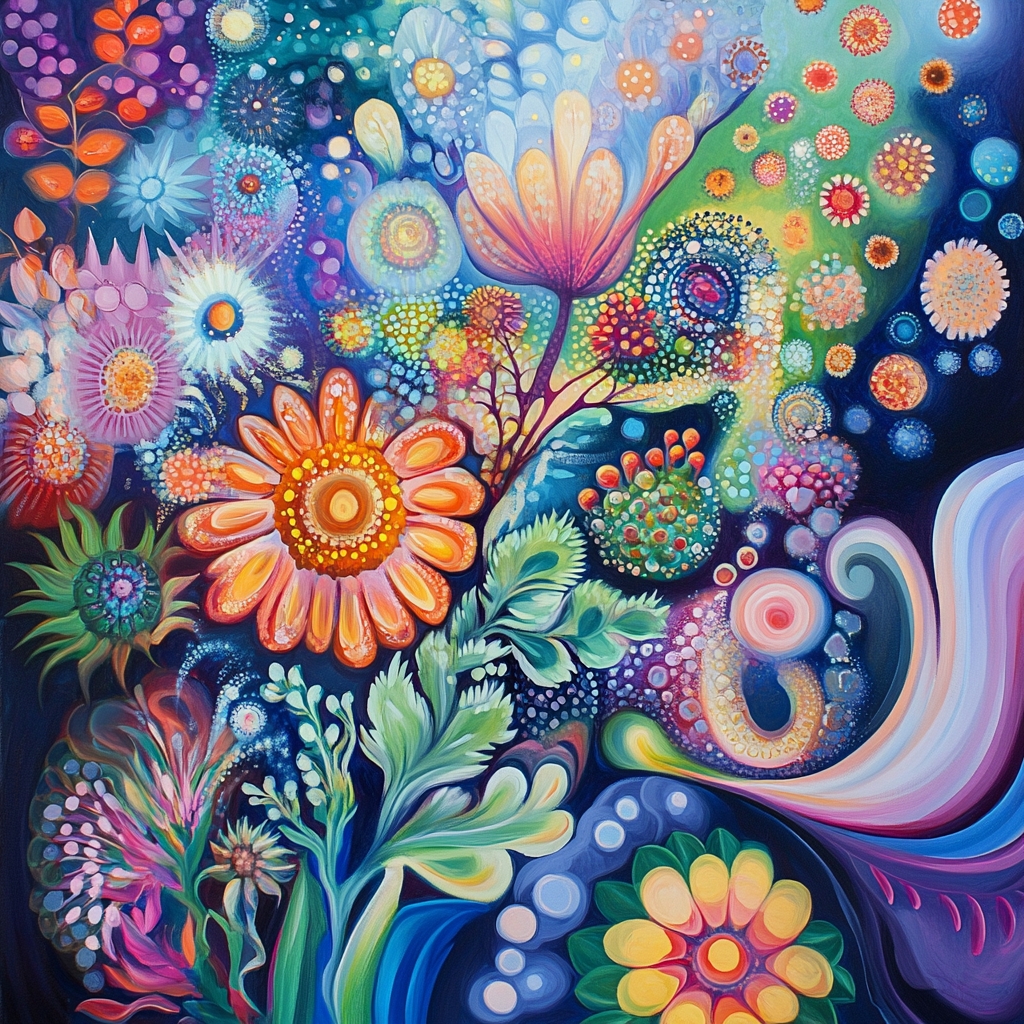
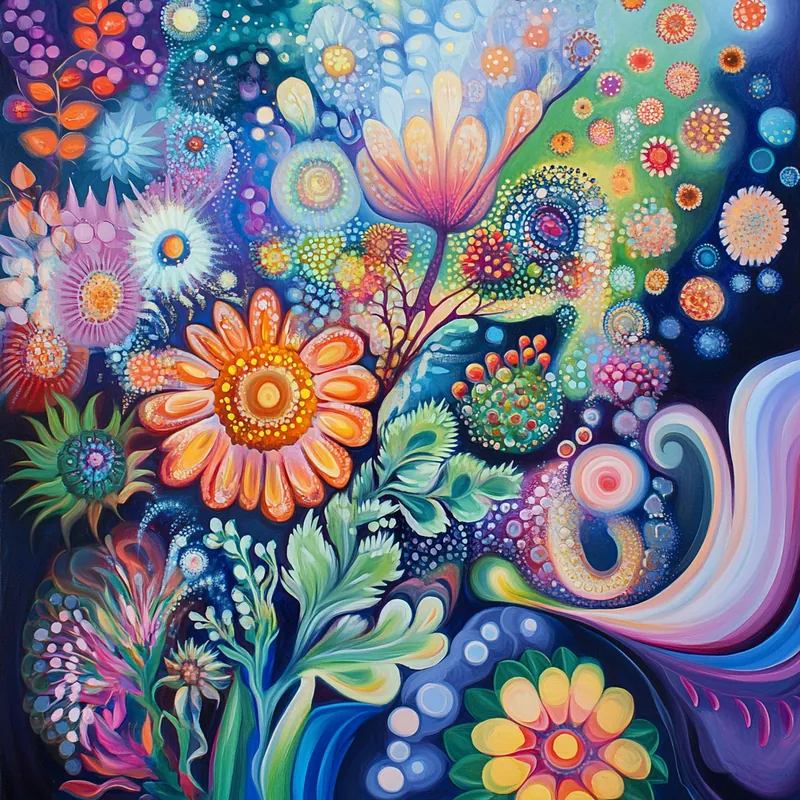
Lighter images, per-page share cards, accessible link text and contrast
Images (same URLs, re-encoded in place):
- Theme images 1024px lossless WebP (1.2-1.7 MB) -> 800px q80 (78-162 KB)
- Header JPEG 431 KB -> 224 KB (progressive q78); logo 768px 456 KB -> 400px 125 KB
- Markdown images get width/height from the file (no layout shift) and all but
  the first lazy-load (rehype-image-dimensions); a missing image fails the build

Share cards:
- Posts: og:type article, published/modified time, sections, and their own
  figure (postImage(), shared with the Article JSON-LD) instead of the logo
- Theme pages use their theme image; other pages og:type website
- og:image width/height/alt; summary_large_image only for landscape images
  >= 600x315, compact card otherwise

Accessibility:
- Theme card image links on /themes/ get the theme title as alt text
- Pink text uses $color-primary-text (#ca085d, >= 4.5:1); muted grey is #767676;
  citation DOI links are underlined
- RSS and newsletter buttons' accessible names match their visible text

Claude-Session: https://claude.ai/code/session_01GoPBSV9tDxq7BMwDmuATmw

diff --git a/src/lib/seo.ts b/src/lib/seo.ts
@@ -94,9 +94,20 @@ export async function postBreadcrumbs(post: Post, path: string): Promise<Crumb[]
 }
 
 /**
+ * The image that represents a post (structured data and share cards):
+ * schema_image, else the first image in the post body, else the site logo.
+ */
+export function postImage(post: Post): { src: string; alt?: string } {
+  if (post.data.schema_image) return { src: post.data.schema_image };
+  const first = post.body?.match(/!\[([^\]]*)\]\(\s*([^)\s]+)/);
+  if (first) return { src: first[2], alt: first[1].replace(/\s+/g, ' ').trim() || undefined };
+  return { src: site.logo };
+}
+
+/**
  * Article structured data for a paper summary.
  * - headline: the title, or seo_title when the title exceeds Google's 110-char limit
- * - image: schema_image, else the first image in the post body, else the site logo
+ * - image: see postImage()
  * - dateModified: last_modified_at, else the post date
  * - keywords: glossary terms the post links to
  * - articleSection: display names of the post's themes
@@ -108,8 +119,7 @@ export async function articleSchema(post: Post, path: string) {
   let headline = data.title;
   if (headline.length > 110) headline = truncate(data.seo_title || data.title, 110);
 
-  const firstImage = html.match(/<img[^>]*\ssrc="([^"]+)"/)?.[1];
-  const image = absoluteUrl(data.schema_image ?? firstImage ?? site.logo);
+  const image = absoluteUrl(postImage(post).src);
 
   const definitions = definitionsByTerm();
   const keywords = [
@@ -151,4 +161,23 @@ export async function articleSchema(post: Post, path: string) {
     ...(data.snippet && { abstract: stripNewlines(stripHtml(data.snippet)) }),
     isAccessibleForFree: true,
   };
+}
+
+/** Open Graph / Twitter card settings for a page. */
+export interface ShareMeta {
+  /** Site-relative image path; defaults to the site logo. */
+  image?: string;
+  imageAlt?: string;
+  /** Set on paper summaries: og:type becomes "article". */
+  article?: { published: Date; modified?: Date; sections: string[] };
+}
+
+/**
+ * Twitter card type for an image. Large cards are cropped to roughly 1.91:1 and
+ * shown wide, so only big landscape images get one; anything else (small figures,
+ * square theme images, the logo) gets the compact "summary" card.
+ */
+export function twitterCard({ width, height }: { width: number; height: number }) {
+  const ratio = width / height;
+  return width >= 600 && height >= 315 && ratio >= 1.3 && ratio <= 2.5 ? 'summary_large_image' : 'summary';
 }

diff --git a/src/lib/images.js b/src/lib/images.js
@@ -1,0 +1,32 @@
+// Pixel dimensions of images served from public/, read at build time.
+import { readFileSync } from 'node:fs';
+import { join } from 'node:path';
+import { imageSize } from 'image-size';
+
+/** @type {Map<string, { width: number, height: number }>} */
+const cache = new Map();
+
+/**
+ * Size of a site-relative image such as "/assets/images/logo_sm.png".
+ * Throws if the file is missing from public/, so broken image links fail the build.
+ * @param {string} src
+ * @param {string} [from] where the image is referenced, for the error message
+ * @returns {{ width: number, height: number }}
+ */
+export function publicImageSize(src, from = 'site') {
+  const path = decodeURI(src.split(/[?#]/)[0]);
+  let size = cache.get(path);
+  if (!size) {
+    let bytes;
+    try {
+      bytes = readFileSync(join(process.cwd(), 'public', path));
+    } catch {
+      throw new Error(`Image "${src}" (referenced in ${from}) not found at public${path}.`);
+    }
+    const { width, height } = imageSize(bytes);
+    if (!width || !height) throw new Error(`Cannot read the dimensions of public${path}.`);
+    size = { width, height };
+    cache.set(path, size);
+  }
+  return size;
+}

diff --git a/src/lib/rehype-image-dimensions.js b/src/lib/rehype-image-dimensions.js
@@ -1,0 +1,21 @@
+// Gives markdown images that point at files in public/ their intrinsic width and
+// height (so the page doesn't shift as they load) and lazy-loads all but the first.
+import { visit } from 'unist-util-visit';
+import { publicImageSize } from './images.js';
+
+export default function rehypeImageDimensions() {
+  return (tree, file) => {
+    let index = 0;
+    visit(tree, 'element', (node) => {
+      if (node.tagName !== 'img') return;
+      const isFirst = index++ === 0;
+      const src = String(node.properties.src ?? '');
+      if (!src.startsWith('/') || src.startsWith('//')) return;
+      const { width, height } = publicImageSize(src, file.path ?? 'markdown');
+      node.properties.width ??= width;
+      node.properties.height ??= height;
+      node.properties.decoding ??= 'async';
+      if (!isFirst) node.properties.loading ??= 'lazy';
+    });
+  };
+}

diff --git a/src/styles/main.sass b/src/styles/main.sass
@@ -249,14 +249,13 @@ body
       color: #b3b3b1
       line-height: 30px
       a
-        color: #b3b3b1
-        text-decoration: none
-        &:hover
-          text-decoration: underline
+        // Underlined: the color alone doesn't set links apart from #333 citation text.
+        color: $color-text-muted
+        text-decoration: underline
   h2
     font-family: $font-family-serif
   a
-    color: $color-primary
+    color: $color-primary-text
     text-decoration: none
     &:hover
       text-decoration: underline
@@ -346,7 +345,7 @@ body
   max-width: 640px
   font-size: $rs/4*3
   text-align: center
-  color: #999
+  color: $color-text-muted
   line-height: $rs*1.1
   a
     color: #666
@@ -519,6 +518,7 @@ body
       text-decoration: underline
     img
       max-width: 100%
+      height: auto
       margin: 0 auto
     figure
       margin: 0

diff --git a/src/styles/_variables.sass b/src/styles/_variables.sass
@@ -1,5 +1,7 @@
 // Colors
 $color-primary: #f62681
+// $color-primary darkened for text: at least 4.5:1 (WCAG AA) on white and the pink card backgrounds
+$color-primary-text: #ca085d
 $color-primary-dark: #d8517c
 $color-primary-light: #f9f0f5
 $color-primary-lighter: #f8e4ed
@@ -8,7 +10,7 @@ $color-accent: #d8517c
 
 $color-text-primary: #333332
 $color-text-secondary: #666665
-$color-text-muted: #999
+$color-text-muted: #767676  // lightest grey with 4.5:1 contrast on white
 $color-text-light: #b3b3b1
 
 $color-background: #fff

diff --git a/src/components/subscribe.html b/src/components/subscribe.html
@@ -669,7 +669,7 @@
 
               <div class="ml-form-embedSubmit">
 
-                  <button type="submit" class="primary" aria-label="Subscribe to newsletter">Sign Up!</button>
+                  <button type="submit" class="primary">Sign Up!</button>
 
                 <button disabled="disabled" style="display: none;" type="button" class="loading" aria-label="Submitting form">
                   <div class="ml-form-embedSubmitLoad"></div>

diff --git a/src/styles/pages/_home.sass b/src/styles/pages/_home.sass
@@ -22,10 +22,11 @@
     color: $color-text-secondary
     flex-grow: 1
 
-.card-button
+// Nested so it outranks main.sass's `.content a`.
+.content-card .card-button
   display: inline-block
   background-color: $color-primary-light
-  color: $color-accent
+  color: $color-primary-text
   text-decoration: none
   padding: 10px 15px
   border-radius: 4px

diff --git a/src/styles/tooltip.sass b/src/styles/tooltip.sass
@@ -4,7 +4,7 @@
   position: relative
   display: inline-block
   border-bottom: 1px dashed $color-primary
-  color: $color-primary
+  color: $color-primary-text
 
   .glossary-term-link
     color: inherit

diff --git a/src/styles/components/_breadcrumbs.sass b/src/styles/components/_breadcrumbs.sass
@@ -25,7 +25,7 @@
     font-weight: 500
 
   a
-    color: $color-primary
+    color: $color-primary-text
     text-decoration: none
 
     &:hover

diff --git a/CLAUDE.md b/CLAUDE.md
@@ -37,6 +37,8 @@ src/
   lib/content.ts      Collection helpers (sorting, URLs, theme lookups, markdownify)
   lib/seo.ts          <title> logic, meta descriptions, JSON-LD (Article, BreadcrumbList, Person)
   lib/remark-glossary-terms.js  Renders :term{...} directives as glossary tooltips
+  lib/rehype-image-dimensions.js  Adds width/height (+ lazy loading) to markdown images
+  lib/images.js       publicImageSize(): pixel size of a file in public/
   pages/              Routes; [slug].astro = posts, themes/[theme].astro = themes
   pages/css/[name].css.ts       Compiles src/styles/<name>.sass -> /css/<name>.css
   pages/assets/js/[name].js.ts  Serves src/scripts/<name>.js -> /assets/js/<name>.js and <name>.min.js
@@ -57,7 +59,7 @@ Copy `src/content/posts/_template_post.md`. Glossary tooltips use markdown direc
 :term[inflammatory]{id="inflammation"}   custom link text
 ```
 
-An unknown term id fails the build. Link to other posts by URL, e.g. `[Lutz et al. 2004](/high-amplitude-gamma-synchrony/)`.
+An unknown term id fails the build, and so does an image path that is not in `public/`. Link to other posts by URL, e.g. `[Lutz et al. 2004](/high-amplitude-gamma-synchrony/)`.
 
 Front matter: `title`, `date`, `theme` (one key or a list), `doi`, `meta_description` (≤ ~160 chars), `snippet`, `citation` (markdown), optional `seo_title` (≤ 60 chars; used for `<title>` when the title is long), `last_modified_at` (drives `dateModified` and sitemap `lastmod`), `schema_image`.
 
@@ -73,6 +75,7 @@ Every URL from the Jekyll site is preserved (pages, `/css/*.css`, `/assets/js/*.
 
 - Sass indented syntax (`.sass`), entry points `main`, `tooltip`, `pages`, `components` in `src/styles/`; partials in `src/styles/{components,pages,mixins}`.
 - Semantic variables live in `src/styles/_variables.sass` — check there before adding colors or dimensions.
+- Text must meet WCAG AA contrast (4.5:1). Use `$color-primary-text` (not `$color-primary`) for pink text and `$color-text-muted` (#767676) as the lightest grey for text; `$color-primary` is for borders and backgrounds.
 - Dart Sass deprecation warnings (`@import`, Bourbon's old syntax) are silenced in `pages/css/[name].css.ts`; Dart Sass 3 will require migrating to `@use` and dropping Bourbon.
 - Breakpoints: 768px, 800px, 1024px.
 
@@ -84,8 +87,13 @@ Every URL from the Jekyll site is preserved (pages, `/css/*.css`, `/assets/js/*.
 - Use state classes (`.visible`, `.expanded`, `.active`) rather than inline style manipulation in JS; dynamic backgrounds use `data-bg-image` attributes.
 - `subscribe.html` is ~700 lines of third-party MailerLite CSS/markup — handle with care.
 
+## Share Cards and Images
+
+- Posts use `og:type` article and their own image (`postImage()`: `schema_image`, else the first figure, else the logo); theme pages use the theme image. `twitterCard()` picks `summary_large_image` only for landscape images at least 600×315 — most figures are smaller and get the compact card.
+- Keep images light: theme images are 800×800 WebP (q80), the header JPEG is progressive q78, the logo is 400×400.
+
 ## Known Improvement Opportunities
 
-- Theme images in `public/assets/images/themes/` are 1.2–1.7 MB each.
-- Per-paper `og:image` / `summary_large_image` cards; `og:type` should be `article` on posts.
+- Generated 1200×630 share images per post (most figures are too small for large cards).
+- Heading levels skip on All Papers (h1 → h3), the glossary and the MailerLite form (h4).
 - Many `meta_description`s exceed ~160 characters.
